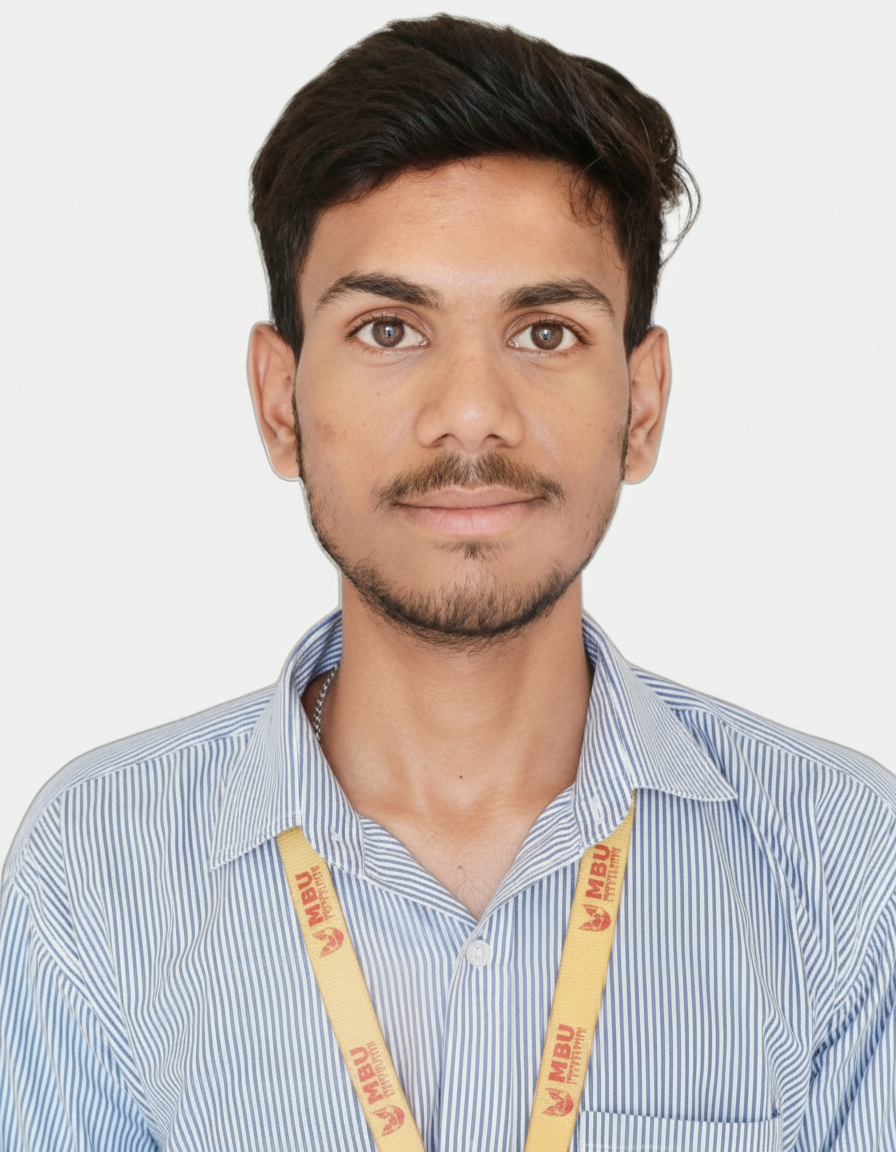
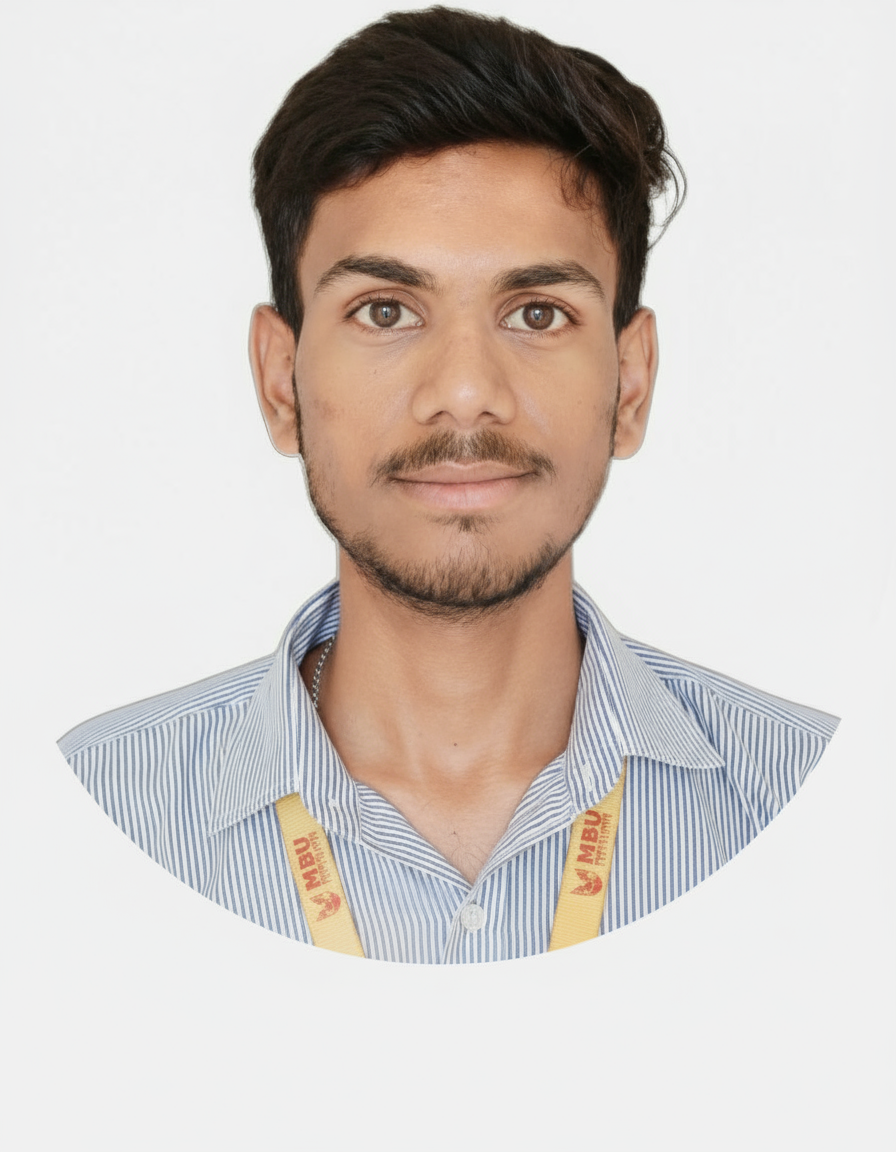
Fix: Adjust profile picture and remove Node.js/REST API

diff --git a/src/components/Skills.tsx b/src/components/Skills.tsx
@@ -8,11 +8,11 @@ const Skills = () => {
     },
     {
       category: 'Frameworks & Libraries',
-      skills: ['React', 'Tailwind CSS', 'Node.js'],
+      skills: ['React', 'Tailwind CSS'],
     },
     {
       category: 'Tools & Technologies',
-      skills: ['Git', 'GitHub', 'VS Code', 'MySQL', 'REST APIs', 'API Integration'],
+      skills: ['Git', 'GitHub', 'VS Code', 'MySQL', 'API Integration'],
     },
     {
       category: 'Methodologies',
